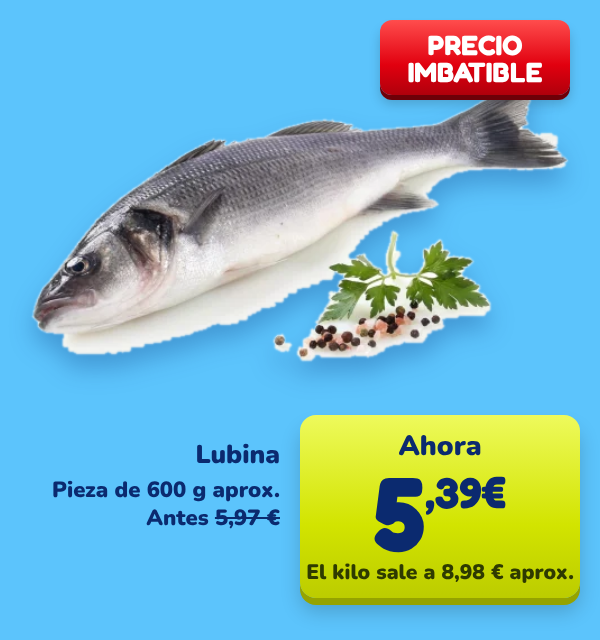
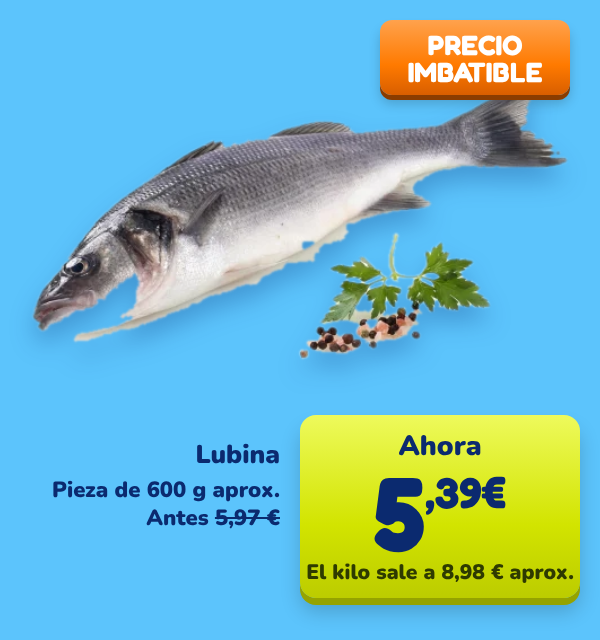
Pie con web y redes de Carrefour, sin rojo corporativo, preheader y remitente revisados
Claude-Session: https://claude.ai/code/session_014n8fruw4BUtYLKWozkJouR

diff --git a/index.html b/index.html
@@ -13,60 +13,60 @@ body{margin:0;padding:0;background:#EEF3F9}
 }
 </style></head>
 <body style="margin:0;padding:0;background:#EEF3F9">
-<div style="display:none;max-height:0;overflow:hidden;mso-hide:all;font-size:1px;line-height:1px;color:#EEF3F9;opacity:0">Teles, sonido y hasta el aceite al 3x2. Solo hasta el 27 de noviembre.&#847;&zwnj;&nbsp;&#847;&zwnj;&nbsp;&#847;&zwnj;&nbsp;&#847;&zwnj;&nbsp;&#847;&zwnj;&nbsp;&#847;&zwnj;&nbsp;</div>
+<div style="display:none;max-height:0;overflow:hidden;mso-hide:all;font-size:1px;line-height:1px;color:#EEF3F9;opacity:0">Tele OLED, Switch 2, electrodomésticos y aceite al 3x2. Solo hasta el 27 de noviembre.&#847;&zwnj;&nbsp;&#847;&zwnj;&nbsp;&#847;&zwnj;&nbsp;&#847;&zwnj;&nbsp;&#847;&zwnj;&nbsp;&#847;&zwnj;&nbsp;</div>
 <table role="presentation" cellpadding="0" cellspacing="0" border="0" width="100%" bgcolor="#EEF3F9" style="background:#EEF3F9"><tr><td align="center" style="padding:0">
 <table role="presentation" class="wrap" cellpadding="0" cellspacing="0" border="0" width="600" bgcolor="#FFFFFF" style="width:600px;max-width:600px;background:#FFFFFF">
 
-<tr><td style="padding:0"><a href="https://www.carrefour.es/lavadora-lg-f2x50s9tlb-9-kg-carga-frontal-1200-rpm-wifi-clase-a-blanco/VC4A-32514266/p?utm_source=newsletter&utm_medium=email&utm_campaign=black_friday_2026&utm_content=lavadora_lg" target="_blank"><img src="https://caarlosfdz.github.io/newsletter-mercaviva/bf-cover.jpg?v=10190933" width="600" alt="Mercaviva. Black Friday del 20 de octubre al 27 de noviembre: 50 % y 70 % de descuento en tecnología, electrodomésticos y alimentación" class="fluid" style="display:block;width:100%;max-width:600px;height:auto;border:0"></a></td></tr>
-<tr><td style="padding:0"><a href="https://www.carrefour.es/lavadora-lg-f2x50s9tlb-9-kg-carga-frontal-1200-rpm-wifi-clase-a-blanco/VC4A-32514266/p?utm_source=newsletter&utm_medium=email&utm_campaign=black_friday_2026&utm_content=lavadora_lg" target="_blank"><img src="https://caarlosfdz.github.io/newsletter-mercaviva/bf-p1.jpg?v=10190933" width="600" alt="Lavadora LG 9 kg: 164,70 €, antes 549 €, 70 % de descuento" class="fluid" style="display:block;width:100%;max-width:600px;height:auto;border:0"></a></td></tr>
-<tr><td style="padding:0"><img src="https://caarlosfdz.github.io/newsletter-mercaviva/bf-tit-tecnologia.jpg?v=10190933" width="600" alt="Ofertas en tecnología" class="fluid" style="display:block;width:100%;max-width:600px;height:auto;border:0"></td></tr>
-<tr><td style="padding:0"><img src="https://caarlosfdz.github.io/newsletter-mercaviva/bf-nubes-arriba.jpg?v=10190933" width="600" alt="" class="fluid" style="display:block;width:100%;max-width:600px;height:auto;border:0"></td></tr>
+<tr><td style="padding:0"><a href="https://www.carrefour.es/lavadora-lg-f2x50s9tlb-9-kg-carga-frontal-1200-rpm-wifi-clase-a-blanco/VC4A-32514266/p?utm_source=newsletter&utm_medium=email&utm_campaign=black_friday_2026&utm_content=lavadora_lg" target="_blank"><img src="https://caarlosfdz.github.io/newsletter-mercaviva/bf-cover.jpg?v=10190939" width="600" alt="Mercaviva. Black Friday del 20 de octubre al 27 de noviembre: 50 % y 70 % de descuento en tecnología, electrodomésticos y alimentación" class="fluid" style="display:block;width:100%;max-width:600px;height:auto;border:0"></a></td></tr>
+<tr><td style="padding:0"><a href="https://www.carrefour.es/lavadora-lg-f2x50s9tlb-9-kg-carga-frontal-1200-rpm-wifi-clase-a-blanco/VC4A-32514266/p?utm_source=newsletter&utm_medium=email&utm_campaign=black_friday_2026&utm_content=lavadora_lg" target="_blank"><img src="https://caarlosfdz.github.io/newsletter-mercaviva/bf-p1.jpg?v=10190939" width="600" alt="Lavadora LG 9 kg: 164,70 €, antes 549 €, 70 % de descuento" class="fluid" style="display:block;width:100%;max-width:600px;height:auto;border:0"></a></td></tr>
+<tr><td style="padding:0"><img src="https://caarlosfdz.github.io/newsletter-mercaviva/bf-tit-tecnologia.jpg?v=10190939" width="600" alt="Ofertas en tecnología" class="fluid" style="display:block;width:100%;max-width:600px;height:auto;border:0"></td></tr>
+<tr><td style="padding:0"><img src="https://caarlosfdz.github.io/newsletter-mercaviva/bf-nubes-arriba.jpg?v=10190939" width="600" alt="" class="fluid" style="display:block;width:100%;max-width:600px;height:auto;border:0"></td></tr>
 <tr><td bgcolor="#5CC4FC" style="padding:0;background:#5CC4FC"><table role="presentation" cellpadding="0" cellspacing="0" border="0" width="100%"><tr>
-<td class="col" width="300" valign="top" style="width:300px;vertical-align:top"><a href="https://www.carrefour.es/proyector-yaber-pro-u9-proyector-1080p-nativo-con-wifi-5g-y-bluetooth-15000lm-brillo-ultra-alto-460-ansi-corrector-keystone-4p-4d/0602561264473/p?utm_source=newsletter&utm_medium=email&utm_campaign=black_friday_2026&utm_content=proyector_yaber" target="_blank"><img src="https://caarlosfdz.github.io/newsletter-mercaviva/bf-p6.png?v=10190933" width="300" alt="Proyector Yaber Pro U9: 95,22 €, antes 218,99 €, −56,5 % y envío gratis" class="fluid" style="display:block;width:100%;max-width:300px;height:auto;border:0"></a>
+<td class="col" width="300" valign="top" style="width:300px;vertical-align:top"><a href="https://www.carrefour.es/proyector-yaber-pro-u9-proyector-1080p-nativo-con-wifi-5g-y-bluetooth-15000lm-brillo-ultra-alto-460-ansi-corrector-keystone-4p-4d/0602561264473/p?utm_source=newsletter&utm_medium=email&utm_campaign=black_friday_2026&utm_content=proyector_yaber" target="_blank"><img src="https://caarlosfdz.github.io/newsletter-mercaviva/bf-p6.png?v=10190939" width="300" alt="Proyector Yaber Pro U9: 95,22 €, antes 218,99 €, −56,5 % y envío gratis" class="fluid" style="display:block;width:100%;max-width:300px;height:auto;border:0"></a>
 <div style="padding:4px 14px 26px"><table role="presentation" cellpadding="0" cellspacing="0" border="0" width="100%"><tr><td align="center" bgcolor="#5CC4FC" style="background:#5CC4FC">
-<a href="https://www.carrefour.es/proyector-yaber-pro-u9-proyector-1080p-nativo-con-wifi-5g-y-bluetooth-15000lm-brillo-ultra-alto-460-ansi-corrector-keystone-4p-4d/0602561264473/p?utm_source=newsletter&utm_medium=email&utm_campaign=black_friday_2026&utm_content=proyector_yaber" target="_blank" style="display:block;text-decoration:none"><img src="https://caarlosfdz.github.io/newsletter-mercaviva/bf-btn-p6.png?v=10190933" width="270" alt="Llévatelo ya" class="fluid" style="display:block;width:100%;max-width:270px;height:auto;border:0;font-family:Arial, Helvetica, sans-serif;font-size:16px;font-weight:bold;line-height:52px;color:#0B2A6F;text-align:center"></a></td></tr></table></div></td>
-<td class="col" width="300" valign="top" style="width:300px;vertical-align:top"><a href="https://www.carrefour.es/lavavajillas-60-cm-candy-cf3e7e0w-5-programas-13-cubiertos-clase-e-blanco/VC4A-33175690/p?utm_source=newsletter&utm_medium=email&utm_campaign=black_friday_2026&utm_content=lavavajillas_candy" target="_blank"><img src="https://caarlosfdz.github.io/newsletter-mercaviva/bf-p2.png?v=10190933" width="300" alt="Lavavajillas Candy CF3E7E0W: 154,50 €, antes 309 €, −50 %" class="fluid" style="display:block;width:100%;max-width:300px;height:auto;border:0"></a>
+<a href="https://www.carrefour.es/proyector-yaber-pro-u9-proyector-1080p-nativo-con-wifi-5g-y-bluetooth-15000lm-brillo-ultra-alto-460-ansi-corrector-keystone-4p-4d/0602561264473/p?utm_source=newsletter&utm_medium=email&utm_campaign=black_friday_2026&utm_content=proyector_yaber" target="_blank" style="display:block;text-decoration:none"><img src="https://caarlosfdz.github.io/newsletter-mercaviva/bf-btn-p6.png?v=10190939" width="270" alt="Llévatelo ya" class="fluid" style="display:block;width:100%;max-width:270px;height:auto;border:0;font-family:Arial, Helvetica, sans-serif;font-size:16px;font-weight:bold;line-height:52px;color:#0B2A6F;text-align:center"></a></td></tr></table></div></td>
+<td class="col" width="300" valign="top" style="width:300px;vertical-align:top"><a href="https://www.carrefour.es/lavavajillas-60-cm-candy-cf3e7e0w-5-programas-13-cubiertos-clase-e-blanco/VC4A-33175690/p?utm_source=newsletter&utm_medium=email&utm_campaign=black_friday_2026&utm_content=lavavajillas_candy" target="_blank"><img src="https://caarlosfdz.github.io/newsletter-mercaviva/bf-p2.png?v=10190939" width="300" alt="Lavavajillas Candy CF3E7E0W: 154,50 €, antes 309 €, −50 %" class="fluid" style="display:block;width:100%;max-width:300px;height:auto;border:0"></a>
 <div style="padding:4px 14px 26px"><table role="presentation" cellpadding="0" cellspacing="0" border="0" width="100%"><tr><td align="center" bgcolor="#5CC4FC" style="background:#5CC4FC">
-<a href="https://www.carrefour.es/lavavajillas-60-cm-candy-cf3e7e0w-5-programas-13-cubiertos-clase-e-blanco/VC4A-33175690/p?utm_source=newsletter&utm_medium=email&utm_campaign=black_friday_2026&utm_content=lavavajillas_candy" target="_blank" style="display:block;text-decoration:none"><img src="https://caarlosfdz.github.io/newsletter-mercaviva/bf-btn-p2.png?v=10190933" width="270" alt="Aprovecha el −50 %" class="fluid" style="display:block;width:100%;max-width:270px;height:auto;border:0;font-family:Arial, Helvetica, sans-serif;font-size:16px;font-weight:bold;line-height:52px;color:#0B2A6F;text-align:center"></a></td></tr></table></div></td></tr></table></td></tr>
+<a href="https://www.carrefour.es/lavavajillas-60-cm-candy-cf3e7e0w-5-programas-13-cubiertos-clase-e-blanco/VC4A-33175690/p?utm_source=newsletter&utm_medium=email&utm_campaign=black_friday_2026&utm_content=lavavajillas_candy" target="_blank" style="display:block;text-decoration:none"><img src="https://caarlosfdz.github.io/newsletter-mercaviva/bf-btn-p2.png?v=10190939" width="270" alt="Aprovecha el −50 %" class="fluid" style="display:block;width:100%;max-width:270px;height:auto;border:0;font-family:Arial, Helvetica, sans-serif;font-size:16px;font-weight:bold;line-height:52px;color:#0B2A6F;text-align:center"></a></td></tr></table></div></td></tr></table></td></tr>
 <tr><td bgcolor="#5CC4FC" style="padding:0;background:#5CC4FC"><table role="presentation" cellpadding="0" cellspacing="0" border="0" width="100%"><tr>
-<td class="col" width="300" valign="top" style="width:300px;vertical-align:top"><a href="https://www.carrefour.es/tv-lg-oled-evo-c5-2025-83-uhd-4k-oled83c5ela/8806096419687/p?utm_source=newsletter&utm_medium=email&utm_campaign=black_friday_2026&utm_content=tv_lg_oled" target="_blank"><img src="https://caarlosfdz.github.io/newsletter-mercaviva/bf-p5.png?v=10190933" width="300" alt="TV LG OLED evo C5 83 pulgadas: 4.877,62 €, antes 6.150,99 €, −20,7 %" class="fluid" style="display:block;width:100%;max-width:300px;height:auto;border:0"></a>
+<td class="col" width="300" valign="top" style="width:300px;vertical-align:top"><a href="https://www.carrefour.es/tv-lg-oled-evo-c5-2025-83-uhd-4k-oled83c5ela/8806096419687/p?utm_source=newsletter&utm_medium=email&utm_campaign=black_friday_2026&utm_content=tv_lg_oled" target="_blank"><img src="https://caarlosfdz.github.io/newsletter-mercaviva/bf-p5.png?v=10190939" width="300" alt="TV LG OLED evo C5 83 pulgadas: 4.877,62 €, antes 6.150,99 €, −20,7 %" class="fluid" style="display:block;width:100%;max-width:300px;height:auto;border:0"></a>
 <div style="padding:4px 14px 26px"><table role="presentation" cellpadding="0" cellspacing="0" border="0" width="100%"><tr><td align="center" bgcolor="#5CC4FC" style="background:#5CC4FC">
-<a href="https://www.carrefour.es/tv-lg-oled-evo-c5-2025-83-uhd-4k-oled83c5ela/8806096419687/p?utm_source=newsletter&utm_medium=email&utm_campaign=black_friday_2026&utm_content=tv_lg_oled" target="_blank" style="display:block;text-decoration:none"><img src="https://caarlosfdz.github.io/newsletter-mercaviva/bf-btn-p5.png?v=10190933" width="270" alt="Ahorra 1.273 €" class="fluid" style="display:block;width:100%;max-width:270px;height:auto;border:0;font-family:Arial, Helvetica, sans-serif;font-size:16px;font-weight:bold;line-height:52px;color:#0B2A6F;text-align:center"></a></td></tr></table></div></td>
-<td class="col" width="300" valign="top" style="width:300px;vertical-align:top"><a href="https://www.carrefour.es/consola-nintendo-switch-2-256-gb-star-fox/VLOT-34789303/p?utm_source=newsletter&utm_medium=email&utm_campaign=black_friday_2026&utm_content=switch2_starfox" target="_blank"><img src="https://caarlosfdz.github.io/newsletter-mercaviva/bf-p3.png?v=10190933" width="300" alt="Nintendo Switch 2 + Star Fox: súperchollo a 519 €" class="fluid" style="display:block;width:100%;max-width:300px;height:auto;border:0"></a>
+<a href="https://www.carrefour.es/tv-lg-oled-evo-c5-2025-83-uhd-4k-oled83c5ela/8806096419687/p?utm_source=newsletter&utm_medium=email&utm_campaign=black_friday_2026&utm_content=tv_lg_oled" target="_blank" style="display:block;text-decoration:none"><img src="https://caarlosfdz.github.io/newsletter-mercaviva/bf-btn-p5.png?v=10190939" width="270" alt="Ahorra 1.273 €" class="fluid" style="display:block;width:100%;max-width:270px;height:auto;border:0;font-family:Arial, Helvetica, sans-serif;font-size:16px;font-weight:bold;line-height:52px;color:#0B2A6F;text-align:center"></a></td></tr></table></div></td>
+<td class="col" width="300" valign="top" style="width:300px;vertical-align:top"><a href="https://www.carrefour.es/consola-nintendo-switch-2-256-gb-star-fox/VLOT-34789303/p?utm_source=newsletter&utm_medium=email&utm_campaign=black_friday_2026&utm_content=switch2_starfox" target="_blank"><img src="https://caarlosfdz.github.io/newsletter-mercaviva/bf-p3.png?v=10190939" width="300" alt="Nintendo Switch 2 + Star Fox: súperchollo a 519 €" class="fluid" style="display:block;width:100%;max-width:300px;height:auto;border:0"></a>
 <div style="padding:4px 14px 26px"><table role="presentation" cellpadding="0" cellspacing="0" border="0" width="100%"><tr><td align="center" bgcolor="#5CC4FC" style="background:#5CC4FC">
-<a href="https://www.carrefour.es/consola-nintendo-switch-2-256-gb-star-fox/VLOT-34789303/p?utm_source=newsletter&utm_medium=email&utm_campaign=black_friday_2026&utm_content=switch2_starfox" target="_blank" style="display:block;text-decoration:none"><img src="https://caarlosfdz.github.io/newsletter-mercaviva/bf-btn-p3.png?v=10190933" width="270" alt="Ver el súperchollo" class="fluid" style="display:block;width:100%;max-width:270px;height:auto;border:0;font-family:Arial, Helvetica, sans-serif;font-size:16px;font-weight:bold;line-height:52px;color:#0B2A6F;text-align:center"></a></td></tr></table></div></td></tr></table></td></tr>
+<a href="https://www.carrefour.es/consola-nintendo-switch-2-256-gb-star-fox/VLOT-34789303/p?utm_source=newsletter&utm_medium=email&utm_campaign=black_friday_2026&utm_content=switch2_starfox" target="_blank" style="display:block;text-decoration:none"><img src="https://caarlosfdz.github.io/newsletter-mercaviva/bf-btn-p3.png?v=10190939" width="270" alt="Ver el súperchollo" class="fluid" style="display:block;width:100%;max-width:270px;height:auto;border:0;font-family:Arial, Helvetica, sans-serif;font-size:16px;font-weight:bold;line-height:52px;color:#0B2A6F;text-align:center"></a></td></tr></table></div></td></tr></table></td></tr>
 
 <tr><td bgcolor="#5CC4FC" style="padding:0;background:#5CC4FC"><table role="presentation" cellpadding="0" cellspacing="0" border="0" width="100%"><tr>
-<td class="col" width="300" valign="top" style="width:300px;vertical-align:top"><a href="https://www.carrefour.es/pikmin-4-academia-dandori-para-switch-2/VC4A-34697905/p?utm_source=newsletter&utm_medium=email&utm_campaign=black_friday_2026&utm_content=pikmin4" target="_blank"><img src="https://caarlosfdz.github.io/newsletter-mercaviva/bf-p4.png?v=10190933" width="300" alt="Pikmin 4 + Academia Dandori en precompra: 59,90 €, antes 69,99 €, envío gratis" class="fluid" style="display:block;width:100%;max-width:300px;height:auto;border:0"></a>
+<td class="col" width="300" valign="top" style="width:300px;vertical-align:top"><a href="https://www.carrefour.es/pikmin-4-academia-dandori-para-switch-2/VC4A-34697905/p?utm_source=newsletter&utm_medium=email&utm_campaign=black_friday_2026&utm_content=pikmin4" target="_blank"><img src="https://caarlosfdz.github.io/newsletter-mercaviva/bf-p4.png?v=10190939" width="300" alt="Pikmin 4 + Academia Dandori en precompra: 59,90 €, antes 69,99 €, envío gratis" class="fluid" style="display:block;width:100%;max-width:300px;height:auto;border:0"></a>
 <div style="padding:4px 14px 26px"><table role="presentation" cellpadding="0" cellspacing="0" border="0" width="100%"><tr><td align="center" bgcolor="#5CC4FC" style="background:#5CC4FC">
-<a href="https://www.carrefour.es/pikmin-4-academia-dandori-para-switch-2/VC4A-34697905/p?utm_source=newsletter&utm_medium=email&utm_campaign=black_friday_2026&utm_content=pikmin4" target="_blank" style="display:block;text-decoration:none"><img src="https://caarlosfdz.github.io/newsletter-mercaviva/bf-btn-p4.png?v=10190933" width="270" alt="Resérvalo ya" class="fluid" style="display:block;width:100%;max-width:270px;height:auto;border:0;font-family:Arial, Helvetica, sans-serif;font-size:16px;font-weight:bold;line-height:52px;color:#0B2A6F;text-align:center"></a></td></tr></table></div></td>
+<a href="https://www.carrefour.es/pikmin-4-academia-dandori-para-switch-2/VC4A-34697905/p?utm_source=newsletter&utm_medium=email&utm_campaign=black_friday_2026&utm_content=pikmin4" target="_blank" style="display:block;text-decoration:none"><img src="https://caarlosfdz.github.io/newsletter-mercaviva/bf-btn-p4.png?v=10190939" width="270" alt="Resérvalo ya" class="fluid" style="display:block;width:100%;max-width:270px;height:auto;border:0;font-family:Arial, Helvetica, sans-serif;font-size:16px;font-weight:bold;line-height:52px;color:#0B2A6F;text-align:center"></a></td></tr></table></div></td>
 <td class="col" width="300" valign="middle" style="width:300px;vertical-align:middle;padding:10px 20px 26px;font-family:Arial, Helvetica, sans-serif;color:#0B2A6F;text-align:center">
-<img src="https://caarlosfdz.github.io/newsletter-mercaviva/bf-envio.png?v=10190933" width="260" alt="Envío gratis" class="fluid" style="display:block;width:100%;max-width:260px;height:auto;border:0;margin:0 auto 12px">
+<img src="https://caarlosfdz.github.io/newsletter-mercaviva/bf-envio.png?v=10190939" width="260" alt="Envío gratis" class="fluid" style="display:block;width:100%;max-width:260px;height:auto;border:0;margin:0 auto 12px">
 <p style="margin:0;font-size:15px;line-height:21px;font-weight:bold">En los productos marcados.</p>
 <p style="margin:4px 0 0;font-size:14px;line-height:20px">Ofertas válidas del 20 de octubre al 27 de noviembre o hasta fin de existencias.</p></td></tr></table></td></tr>
-<tr><td style="padding:0"><img src="https://caarlosfdz.github.io/newsletter-mercaviva/bf-nubes-abajo.jpg?v=10190933" width="600" alt="" class="fluid" style="display:block;width:100%;max-width:600px;height:auto;border:0"></td></tr>
-<tr><td style="padding:0"><img src="https://caarlosfdz.github.io/newsletter-mercaviva/bf-tit-compra.jpg?v=10190933" width="600" alt="Ofertas en tu compra: 3x2, 2.ª unidad al 50 % y precios imbatibles" class="fluid" style="display:block;width:100%;max-width:600px;height:auto;border:0"></td></tr>
-<tr><td style="padding:0"><img src="https://caarlosfdz.github.io/newsletter-mercaviva/bf-nubes-arriba-2.jpg?v=10190933" width="600" alt="" class="fluid" style="display:block;width:100%;max-width:600px;height:auto;border:0"></td></tr>
+<tr><td style="padding:0"><img src="https://caarlosfdz.github.io/newsletter-mercaviva/bf-nubes-abajo.jpg?v=10190939" width="600" alt="" class="fluid" style="display:block;width:100%;max-width:600px;height:auto;border:0"></td></tr>
+<tr><td style="padding:0"><img src="https://caarlosfdz.github.io/newsletter-mercaviva/bf-tit-compra.jpg?v=10190939" width="600" alt="Ofertas en tu compra: 3x2, 2.ª unidad al 50 % y precios imbatibles" class="fluid" style="display:block;width:100%;max-width:600px;height:auto;border:0"></td></tr>
+<tr><td style="padding:0"><img src="https://caarlosfdz.github.io/newsletter-mercaviva/bf-nubes-arriba-2.jpg?v=10190939" width="600" alt="" class="fluid" style="display:block;width:100%;max-width:600px;height:auto;border:0"></td></tr>
 <tr><td bgcolor="#5CC4FC" style="padding:0;background:#5CC4FC"><table role="presentation" cellpadding="0" cellspacing="0" border="0" width="100%"><tr>
-<td class="col" width="300" valign="top" style="width:300px;vertical-align:top"><a href="https://www.carrefour.es/supermercado/aceite-de-oliva-virgen-serie-oro-coosur-1-l/R-VC4AECOMM-484256/p?utm_source=newsletter&utm_medium=email&utm_campaign=black_friday_2026&utm_content=aceite_coosur" target="_blank"><img src="https://caarlosfdz.github.io/newsletter-mercaviva/bf-p9.png?v=10190933" width="300" alt="Aceite Coosur Serie Oro 1 l: 3x2, el litro sale a 4,13 €" class="fluid" style="display:block;width:100%;max-width:300px;height:auto;border:0"></a>
+<td class="col" width="300" valign="top" style="width:300px;vertical-align:top"><a href="https://www.carrefour.es/supermercado/aceite-de-oliva-virgen-serie-oro-coosur-1-l/R-VC4AECOMM-484256/p?utm_source=newsletter&utm_medium=email&utm_campaign=black_friday_2026&utm_content=aceite_coosur" target="_blank"><img src="https://caarlosfdz.github.io/newsletter-mercaviva/bf-p9.png?v=10190939" width="300" alt="Aceite Coosur Serie Oro 1 l: 3x2, el litro sale a 4,13 €" class="fluid" style="display:block;width:100%;max-width:300px;height:auto;border:0"></a>
 <div style="padding:4px 14px 26px"><table role="presentation" cellpadding="0" cellspacing="0" border="0" width="100%"><tr><td align="center" bgcolor="#5CC4FC" style="background:#5CC4FC">
-<a href="https://www.carrefour.es/supermercado/aceite-de-oliva-virgen-serie-oro-coosur-1-l/R-VC4AECOMM-484256/p?utm_source=newsletter&utm_medium=email&utm_campaign=black_friday_2026&utm_content=aceite_coosur" target="_blank" style="display:block;text-decoration:none"><img src="https://caarlosfdz.github.io/newsletter-mercaviva/bf-btn-p9.png?v=10190933" width="270" alt="Llévate 3, paga 2" class="fluid" style="display:block;width:100%;max-width:270px;height:auto;border:0;font-family:Arial, Helvetica, sans-serif;font-size:16px;font-weight:bold;line-height:52px;color:#0B2A6F;text-align:center"></a></td></tr></table></div></td>
-<td class="col" width="300" valign="top" style="width:300px;vertical-align:top"><a href="https://www.carrefour.es/supermercado/aceite-de-oliva-suave-04-la-espanola-1-l/R-520660257/p?utm_source=newsletter&utm_medium=email&utm_campaign=black_friday_2026&utm_content=aceite_la_espanola" target="_blank"><img src="https://caarlosfdz.github.io/newsletter-mercaviva/bf-p10.png?v=10190933" width="300" alt="Aceite La Española suave 1 l: 3x2, el litro sale a 3,66 €" class="fluid" style="display:block;width:100%;max-width:300px;height:auto;border:0"></a>
+<a href="https://www.carrefour.es/supermercado/aceite-de-oliva-virgen-serie-oro-coosur-1-l/R-VC4AECOMM-484256/p?utm_source=newsletter&utm_medium=email&utm_campaign=black_friday_2026&utm_content=aceite_coosur" target="_blank" style="display:block;text-decoration:none"><img src="https://caarlosfdz.github.io/newsletter-mercaviva/bf-btn-p9.png?v=10190939" width="270" alt="Llévate 3, paga 2" class="fluid" style="display:block;width:100%;max-width:270px;height:auto;border:0;font-family:Arial, Helvetica, sans-serif;font-size:16px;font-weight:bold;line-height:52px;color:#0B2A6F;text-align:center"></a></td></tr></table></div></td>
+<td class="col" width="300" valign="top" style="width:300px;vertical-align:top"><a href="https://www.carrefour.es/supermercado/aceite-de-oliva-suave-04-la-espanola-1-l/R-520660257/p?utm_source=newsletter&utm_medium=email&utm_campaign=black_friday_2026&utm_content=aceite_la_espanola" target="_blank"><img src="https://caarlosfdz.github.io/newsletter-mercaviva/bf-p10.png?v=10190939" width="300" alt="Aceite La Española suave 1 l: 3x2, el litro sale a 3,66 €" class="fluid" style="display:block;width:100%;max-width:300px;height:auto;border:0"></a>
 <div style="padding:4px 14px 26px"><table role="presentation" cellpadding="0" cellspacing="0" border="0" width="100%"><tr><td align="center" bgcolor="#5CC4FC" style="background:#5CC4FC">
-<a href="https://www.carrefour.es/supermercado/aceite-de-oliva-suave-04-la-espanola-1-l/R-520660257/p?utm_source=newsletter&utm_medium=email&utm_campaign=black_friday_2026&utm_content=aceite_la_espanola" target="_blank" style="display:block;text-decoration:none"><img src="https://caarlosfdz.github.io/newsletter-mercaviva/bf-btn-p10.png?v=10190933" width="270" alt="Aprovecha el 3x2" class="fluid" style="display:block;width:100%;max-width:270px;height:auto;border:0;font-family:Arial, Helvetica, sans-serif;font-size:16px;font-weight:bold;line-height:52px;color:#0B2A6F;text-align:center"></a></td></tr></table></div></td></tr></table></td></tr>
+<a href="https://www.carrefour.es/supermercado/aceite-de-oliva-suave-04-la-espanola-1-l/R-520660257/p?utm_source=newsletter&utm_medium=email&utm_campaign=black_friday_2026&utm_content=aceite_la_espanola" target="_blank" style="display:block;text-decoration:none"><img src="https://caarlosfdz.github.io/newsletter-mercaviva/bf-btn-p10.png?v=10190939" width="270" alt="Aprovecha el 3x2" class="fluid" style="display:block;width:100%;max-width:270px;height:auto;border:0;font-family:Arial, Helvetica, sans-serif;font-size:16px;font-weight:bold;line-height:52px;color:#0B2A6F;text-align:center"></a></td></tr></table></div></td></tr></table></td></tr>
 <tr><td bgcolor="#5CC4FC" style="padding:0;background:#5CC4FC"><table role="presentation" cellpadding="0" cellspacing="0" border="0" width="100%"><tr>
-<td class="col" width="300" valign="top" style="width:300px;vertical-align:top"><a href="https://www.carrefour.es/supermercado/salmon-ahumado-noruego-carrefour-extra-100-g/R-682701980/p?utm_source=newsletter&utm_medium=email&utm_campaign=black_friday_2026&utm_content=salmon_ahumado" target="_blank"><img src="https://caarlosfdz.github.io/newsletter-mercaviva/bf-p7.png?v=10190933" width="300" alt="Salmón ahumado noruego Extra 100 g: 2.ª unidad al 50 %, cada una a 2,77 €" class="fluid" style="display:block;width:100%;max-width:300px;height:auto;border:0"></a>
+<td class="col" width="300" valign="top" style="width:300px;vertical-align:top"><a href="https://www.carrefour.es/supermercado/salmon-ahumado-noruego-carrefour-extra-100-g/R-682701980/p?utm_source=newsletter&utm_medium=email&utm_campaign=black_friday_2026&utm_content=salmon_ahumado" target="_blank"><img src="https://caarlosfdz.github.io/newsletter-mercaviva/bf-p7.png?v=10190939" width="300" alt="Salmón ahumado noruego Extra 100 g: 2.ª unidad al 50 %, cada una a 2,77 €" class="fluid" style="display:block;width:100%;max-width:300px;height:auto;border:0"></a>
 <div style="padding:4px 14px 26px"><table role="presentation" cellpadding="0" cellspacing="0" border="0" width="100%"><tr><td align="center" bgcolor="#5CC4FC" style="background:#5CC4FC">
-<a href="https://www.carrefour.es/supermercado/salmon-ahumado-noruego-carrefour-extra-100-g/R-682701980/p?utm_source=newsletter&utm_medium=email&utm_campaign=black_friday_2026&utm_content=salmon_ahumado" target="_blank" style="display:block;text-decoration:none"><img src="https://caarlosfdz.github.io/newsletter-mercaviva/bf-btn-p7.png?v=10190933" width="270" alt="Añadir a la cesta" class="fluid" style="display:block;width:100%;max-width:270px;height:auto;border:0;font-family:Arial, Helvetica, sans-serif;font-size:16px;font-weight:bold;line-height:52px;color:#0B2A6F;text-align:center"></a></td></tr></table></div></td>
-<td class="col" width="300" valign="top" style="width:300px;vertical-align:top"><a href="https://www.carrefour.es/supermercado/lubina-600-g-aprox/R-790212148/p?utm_source=newsletter&utm_medium=email&utm_campaign=black_friday_2026&utm_content=lubina" target="_blank"><img src="https://caarlosfdz.github.io/newsletter-mercaviva/bf-p8.png?v=10190933" width="300" alt="Lubina 600 g aprox.: 5,39 €, antes 5,97 €" class="fluid" style="display:block;width:100%;max-width:300px;height:auto;border:0"></a>
+<a href="https://www.carrefour.es/supermercado/salmon-ahumado-noruego-carrefour-extra-100-g/R-682701980/p?utm_source=newsletter&utm_medium=email&utm_campaign=black_friday_2026&utm_content=salmon_ahumado" target="_blank" style="display:block;text-decoration:none"><img src="https://caarlosfdz.github.io/newsletter-mercaviva/bf-btn-p7.png?v=10190939" width="270" alt="Añadir a la cesta" class="fluid" style="display:block;width:100%;max-width:270px;height:auto;border:0;font-family:Arial, Helvetica, sans-serif;font-size:16px;font-weight:bold;line-height:52px;color:#0B2A6F;text-align:center"></a></td></tr></table></div></td>
+<td class="col" width="300" valign="top" style="width:300px;vertical-align:top"><a href="https://www.carrefour.es/supermercado/lubina-600-g-aprox/R-790212148/p?utm_source=newsletter&utm_medium=email&utm_campaign=black_friday_2026&utm_content=lubina" target="_blank"><img src="https://caarlosfdz.github.io/newsletter-mercaviva/bf-p8.png?v=10190939" width="300" alt="Lubina 600 g aprox.: 5,39 €, antes 5,97 €" class="fluid" style="display:block;width:100%;max-width:300px;height:auto;border:0"></a>
 <div style="padding:4px 14px 26px"><table role="presentation" cellpadding="0" cellspacing="0" border="0" width="100%"><tr><td align="center" bgcolor="#5CC4FC" style="background:#5CC4FC">
-<a href="https://www.carrefour.es/supermercado/lubina-600-g-aprox/R-790212148/p?utm_source=newsletter&utm_medium=email&utm_campaign=black_friday_2026&utm_content=lubina" target="_blank" style="display:block;text-decoration:none"><img src="https://caarlosfdz.github.io/newsletter-mercaviva/bf-btn-p8.png?v=10190933" width="270" alt="Quiero esta lubina" class="fluid" style="display:block;width:100%;max-width:270px;height:auto;border:0;font-family:Arial, Helvetica, sans-serif;font-size:16px;font-weight:bold;line-height:52px;color:#0B2A6F;text-align:center"></a></td></tr></table></div></td></tr></table></td></tr>
-<tr><td style="padding:0"><img src="https://caarlosfdz.github.io/newsletter-mercaviva/bf-nubes-abajo-fin.jpg?v=10190933" width="600" alt="" class="fluid" style="display:block;width:100%;max-width:600px;height:auto;border:0"></td></tr>
-<tr><td align="center" style="padding:10px 20px 6px"><a href="https://www.mercaviva.es/?utm_source=newsletter&utm_medium=email&utm_campaign=black_friday_2026&utm_content=footer" target="_blank" style="font-family:Arial, Helvetica, sans-serif;font-size:16px;font-weight:bold;color:#0057B8;text-decoration:none">www.mercaviva.es</a></td></tr>
-<tr><td align="center" style="padding:8px 20px 18px"><table role="presentation" cellpadding="0" cellspacing="0" border="0"><tr><td style="padding:0 6px"><a href="https://www.mercaviva.es/redes/instagram" target="_blank"><img src="https://caarlosfdz.github.io/newsletter-mercaviva/bf-ico-instagram.png?v=10190933" width="40" height="40" alt="Instagram" style="display:block;border:0;width:40px;height:40px"></a></td><td style="padding:0 6px"><a href="https://www.mercaviva.es/redes/facebook" target="_blank"><img src="https://caarlosfdz.github.io/newsletter-mercaviva/bf-ico-facebook.png?v=10190933" width="40" height="40" alt="Facebook" style="display:block;border:0;width:40px;height:40px"></a></td><td style="padding:0 6px"><a href="https://www.mercaviva.es/redes/tiktok" target="_blank"><img src="https://caarlosfdz.github.io/newsletter-mercaviva/bf-ico-tiktok.png?v=10190933" width="40" height="40" alt="TikTok" style="display:block;border:0;width:40px;height:40px"></a></td><td style="padding:0 6px"><a href="https://www.mercaviva.es/redes/youtube" target="_blank"><img src="https://caarlosfdz.github.io/newsletter-mercaviva/bf-ico-youtube.png?v=10190933" width="40" height="40" alt="YouTube" style="display:block;border:0;width:40px;height:40px"></a></td><td style="padding:0 6px"><a href="https://www.mercaviva.es/redes/x" target="_blank"><img src="https://caarlosfdz.github.io/newsletter-mercaviva/bf-ico-x.png?v=10190933" width="40" height="40" alt="X" style="display:block;border:0;width:40px;height:40px"></a></td></tr></table></td></tr>
+<a href="https://www.carrefour.es/supermercado/lubina-600-g-aprox/R-790212148/p?utm_source=newsletter&utm_medium=email&utm_campaign=black_friday_2026&utm_content=lubina" target="_blank" style="display:block;text-decoration:none"><img src="https://caarlosfdz.github.io/newsletter-mercaviva/bf-btn-p8.png?v=10190939" width="270" alt="Quiero esta lubina" class="fluid" style="display:block;width:100%;max-width:270px;height:auto;border:0;font-family:Arial, Helvetica, sans-serif;font-size:16px;font-weight:bold;line-height:52px;color:#0B2A6F;text-align:center"></a></td></tr></table></div></td></tr></table></td></tr>
+<tr><td style="padding:0"><img src="https://caarlosfdz.github.io/newsletter-mercaviva/bf-nubes-abajo-fin.jpg?v=10190939" width="600" alt="" class="fluid" style="display:block;width:100%;max-width:600px;height:auto;border:0"></td></tr>
+<tr><td align="center" style="padding:10px 20px 6px"><a href="https://www.carrefour.es/?utm_source=newsletter&utm_medium=email&utm_campaign=black_friday_2026&utm_content=footer" target="_blank" style="font-family:Arial, Helvetica, sans-serif;font-size:16px;font-weight:bold;color:#0057B8;text-decoration:none">www.carrefour.es</a></td></tr>
+<tr><td align="center" style="padding:8px 20px 18px"><table role="presentation" cellpadding="0" cellspacing="0" border="0"><tr><td style="padding:0 6px"><a href="https://instagram.com/carrefoures" target="_blank"><img src="https://caarlosfdz.github.io/newsletter-mercaviva/bf-ico-instagram.png?v=10190939" width="40" height="40" alt="Instagram" style="display:block;border:0;width:40px;height:40px"></a></td><td style="padding:0 6px"><a href="https://www.facebook.com/carrefoures" target="_blank"><img src="https://caarlosfdz.github.io/newsletter-mercaviva/bf-ico-facebook.png?v=10190939" width="40" height="40" alt="Facebook" style="display:block;border:0;width:40px;height:40px"></a></td><td style="padding:0 6px"><a href="https://www.youtube.com/user/carrefour" target="_blank"><img src="https://caarlosfdz.github.io/newsletter-mercaviva/bf-ico-youtube.png?v=10190939" width="40" height="40" alt="YouTube" style="display:block;border:0;width:40px;height:40px"></a></td><td style="padding:0 6px"><a href="https://www.twitter.com/carrefourEs" target="_blank"><img src="https://caarlosfdz.github.io/newsletter-mercaviva/bf-ico-x.png?v=10190939" width="40" height="40" alt="X" style="display:block;border:0;width:40px;height:40px"></a></td></tr></table></td></tr>
 <tr><td style="padding:16px 24px 26px;font-family:Arial, Helvetica, sans-serif;font-size:12px;line-height:18px;color:#4A5878;background:#EEF3F9">
 <p style="margin:0 0 10px"><strong style="color:#0B2A6F">Condiciones de las promociones.</strong> Válidas del 20/10/2026 al 27/11/2026 o hasta fin de existencias. <strong>3x2:</strong> al comprar 3 unidades del mismo producto, la de menor precio sale gratis. <strong>2.ª ud. al 50 %:</strong> descuento del 50 % en la segunda unidad del mismo producto. <strong>Envío gratis:</strong> solo en los productos indicados y en envíos a la península. Precios con IVA incluido. Descuentos calculados sobre el precio anterior indicado.</p>
-<p style="margin:0 0 10px">Recibes este email porque estás suscrito a la newsletter de Mercaviva. Remitente: Mercaviva Supermercados, S.A. (empresa ficticia), C/ Ejemplo, 1, 28000 Madrid. Consulta nuestra <a href="https://www.mercaviva.es/privacidad" target="_blank" style="color:#0057B8;text-decoration:underline">política de privacidad</a> o <a href="{$unsubscribe}" target="_blank" style="color:#0057B8;text-decoration:underline">date de baja</a> cuando quieras.</p>
+<p style="margin:0 0 10px">Recibes este email porque estás suscrito a la newsletter de Mercaviva. Remitente: Mercaviva Hipermercados, S.A. (empresa ficticia), Avda. de la Innovación, 12, 11130 Chiclana de la Frontera (Cádiz). Email: hola@mercaviva.es. Consulta nuestra <a href="https://www.carrefour.es/politica-de-privacidad/mas-info/" target="_blank" style="color:#0057B8;text-decoration:underline">política de privacidad</a> o <a href="{$unsubscribe}" target="_blank" style="color:#0057B8;text-decoration:underline">date de baja</a> cuando quieras.</p>
 <p style="margin:0 0 10px"><strong style="color:#0B2A6F">Publicidad.</strong> ¿No ves bien este email? <a href="{$url}" target="_blank" style="color:#0057B8;text-decoration:underline">Ábrelo en el navegador</a>.</p>
 <p style="margin:0;color:#0B2A6F"><strong>Ejercicio académico. Mercaviva es una marca ficticia; no es una comunicación oficial de Carrefour.</strong></p></td></tr>
 </table></td></tr></table></body></html>
